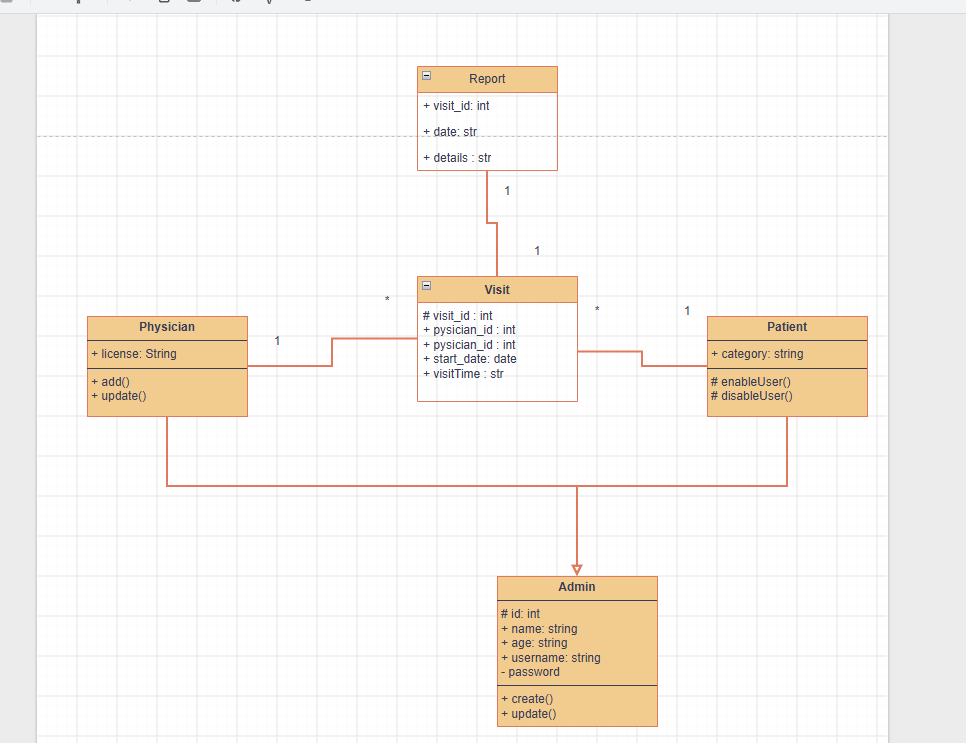
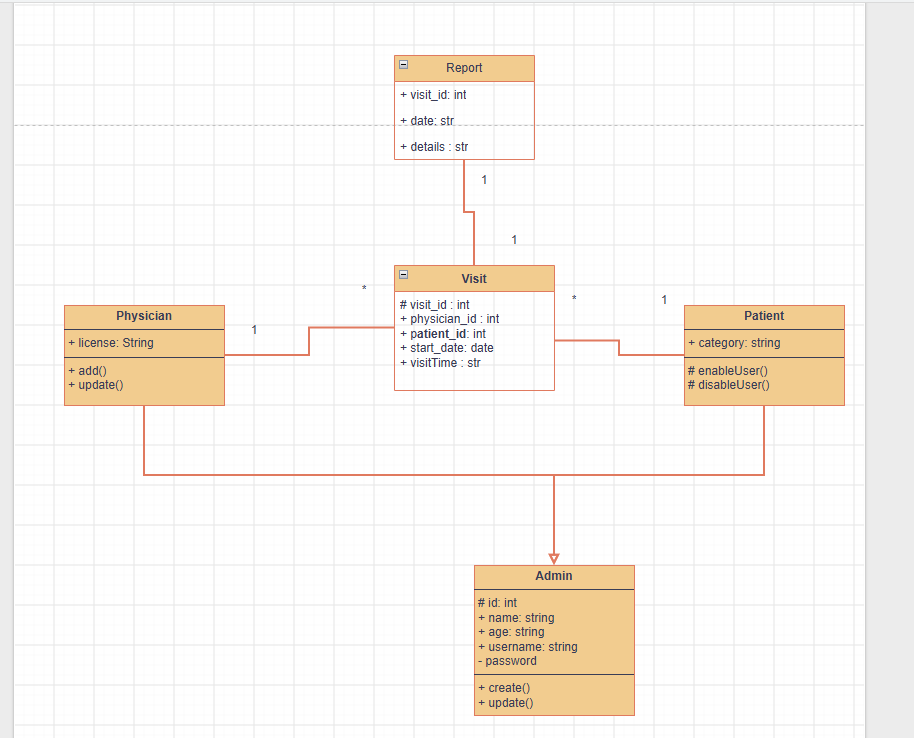
third commit in class time

diff --git a/view/admin_view.py b/view/admin_view.py
@@ -1,0 +1,93 @@
+from tkinter import END
+from controller.user_controller import UserControl
+from model.view import View
+
+
+def run():
+    win = View()
+    my_input_list = ["admin_id", "name", "age", "controller", "user name", "password"]
+
+    controller = UserControl()
+
+
+
+    #  show data on the table
+
+    def show_data_on_the_table():
+        success, user_list = controller.get_all_user()
+
+        if success:
+            for item in users_table.get_children():
+                users_table.delete(item)
+            for user in user_list:
+                users_table.insert("", END, values=user.to_tuple())
+
+
+    # select_user on the table
+
+    def select_user(event_info):
+        row_id = users_table.focus()
+        selected_item = users_table.item(row_id, "values")
+        win.set_selected_values(selected_item)
+
+
+    # resetting the form after events calls
+    def reset_form():
+        win.reset_form()
+        show_data_on_the_table()
+
+
+    #  my functions
+    def save_product() -> None:
+        print("saving product")
+        user = win.get_res_dic()
+        success, response = controller.save_user(user)
+        if success:
+            users_table.insert("", END, values=tuple(user.values()))
+            reset_form()
+        win.show_message_box(success, response)
+
+
+    def edit_product() -> None:
+        print("editing product")
+        user = win.get_res_dic()
+        success, response = controller.edite_user(user)
+        if success:
+            reset_form()
+        win.show_message_box(success, response)
+
+
+    def delete_product() -> None:
+        print("deleting product")
+        user = win.get_res_dic()
+        success, response = controller.delete_user(user["national code"])
+        if success:
+            reset_form()
+        win.show_message_box(success, response)
+
+
+
+    #  mt Label drawing
+    for component in list(enumerate(my_input_list)):
+        win.draw_str_input(text=component[1], x=20, y=(component[0] + 1) * 30)
+
+    # my users table headings
+
+    headings_list = ["name", "family", "national code", "birth date", "phone number", "user name", "role", "locked"]
+    users_table = win.draw_table(x=290, y=20, columns=len(headings_list))
+
+    for i in range(0, len(headings_list)):
+        users_table.heading(i + 1, text=headings_list[i])
+        users_table.column(i + 1, width=100)
+
+    users_table.bind("<ButtonRelease>", select_user)
+
+    # my Button drawing
+    my_button_list = [("save", save_product), ("edite", edit_product),
+                      ("delete", delete_product)]
+
+    for component in list(enumerate(my_button_list)):
+        win.draw_button(text=component[1][0], x=(component[0] + 1) * 70, y=300, command=component[1][1])
+
+    reset_form()
+    win.mainloop()
